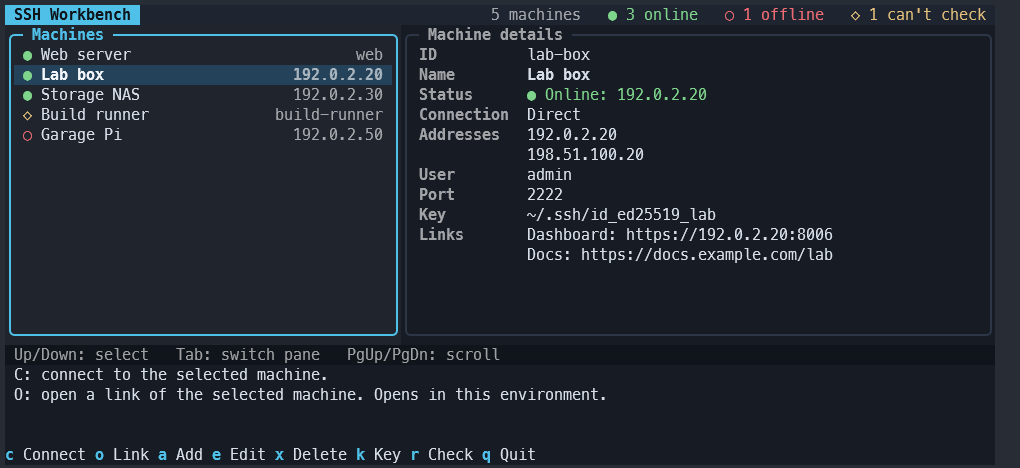
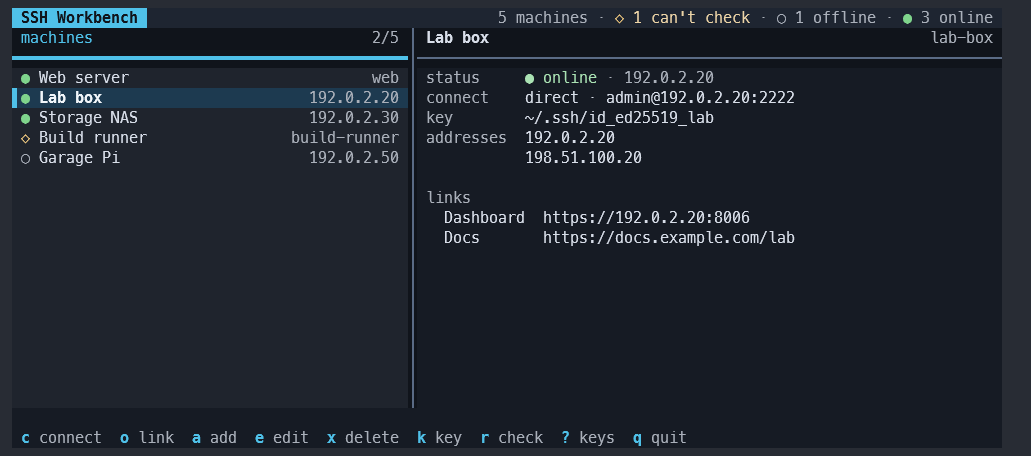
docs: the README image and a look check in Windows Terminal after the TUI overhaul

Changed region(s): [[0.0, 0.0, 0.9725, 0.8596], [0.0, 0.9518, 0.6686, 0.9825]]

diff --git a/docs/validation.md b/docs/validation.md
@@ -28,6 +28,46 @@ Not checked: what was left out, and why.
 | Screenshots | Only from fictional data; keep the rest in ignored `.local/` |
 | Automated checks | One line with the test count is enough; CI keeps the rest |
 
+## TUI overhaul: the look in Windows Terminal, 2026-11-23
+
+Windows 11, Windows Terminal 1.25.3131.0 (MesloLGM Nerd Font Mono, size 11,
+the profile's dark scheme at 85% opacity), PowerShell 7.6.10, Python 3.14.10,
+Textual 8.2.8, `main` at `728d023`. This is the one Windows Terminal look
+check the overhaul's design recommended after Task 30. At Jadon's request, a
+coding agent on another machine drove the window through a scheduled task in
+the Windows workstation's desktop session and the Windows Terminal harness, as
+in the Caps Lock entry of 2026-10-31; the task was unregistered afterwards.
+Three launchers were used: the Task 30 look launcher (51 fictional machines, a
+stand-in checker, a temporary machine file, state file and SSH folder, the
+process, socket and browser entry points rejected), `scripts/check_keys.py`
+for the key picker, and a launcher of the same build with five fictional
+machines for the README image. `NO_COLOR` was unset. No port check, no
+`ssh -G`, no `ssh`, no browser. C was never pressed, and K only in
+`check_keys.py`. Windows opened at 80x24, 60x20, 120x30 and 110x22; resizing
+an open window by pixels gave 57x19, 78x23 and 58x19.
+
+| Check | Observed |
+| --- | --- |
+| Bold | The selected machine's name, the details' name, the border titles, the footer and hint keys, the form's two buttons, the key picker's section labels, the highlighted option and the focused radio label drew in a heavier weight, each in its own color |
+| Glyphs | `▌ ● ○ ◇ × · X ↑↓` and the rounded frame corners each took one cell and drew in MesloLGM Nerd Font Mono |
+| Main screen | 80x24: the header with two counts, the `▌` marker and band on the selected row, five details rows and the links block with wrapped URLs, nine footer keys on one row. 60x20: labels above their values, the footer on two rows. 120x30: all five header counts and row targets |
+| `?` | The key panel opened at the right with cyan keys; Escape closed it |
+| Backdrop | Behind every modal the main screen was dimmed to faint text on the background color; the frames were solid |
+| Add form, 80x24 | `Add machine` in the border, lowercase labels beside the fields, the muted placeholder in the links box, `^s save` filled and `esc cancel` plain on the last row. Ctrl+S on the empty form put `expected a nonempty string` in red under `id` and the frame grew by a row; typing `demo` moved the error under `name` |
+| Focus bar and marks | Tab moved a cyan `▌` to the connection row, the checkbox and the links box without moving their text. Down then Space filled the `Direct (addresses)` ring and emptied the other, and the frame grew to show the direct fields with their placeholders. Space on the checkbox turned `·` into `X` |
+| Edit form | Studio box's values in their fields, the links box at five rows. Tab, Tab: the band was on `SSH alias` while the filled ring was on `Direct (addresses)`, as in the roadmap's backlog row |
+| Form across 60 columns | With an id and a name typed at 80x24, narrowing to 57x19 put the labels above their fields and stacked the two rings; the focused name field stayed in view and the buttons on the last row. Back at 78x23 the labels were beside their fields and both values were kept |
+| Link picker | Three links: the machine's name, each link's name over its muted URL, Grafana's URL wrapped under the name, the `▌` marker and band following Down, `enter open  esc cancel` on the last row; the same at 60x20 and 120x30. Twelve links at 80x24: the list scrolled with a one-column scrollbar between the name and the hint row, and End showed the twelfth with its marker |
+| Delete question | A red frame as wide as `Delete Studio box (studio-box)?`, a blank row, `y delete  n keep`; for the long name and 86-character ID the frame went to its width cap with the ID wrapped. N and Escape kept the machine |
+| Key picker (`check_keys.py`) | `Key login`, the intro, a blank row, `Key` bold, three options with the `▌` marker, a blank row, `Target system`, the filled and empty rings, and `↑↓ key  tab system  enter start  esc cancel` on the last row. Tab, Down, Space filled the Windows ring. For the alias machine the amber note and the muted `Not listed` line showed, and everything fit 80x24. Narrowed to 58x19 the body scrolled under the hint row with the highlighted key in view. Escape closed it and nothing started |
+| README image | `docs/images/workbench.png` retaken at 110x22 from the five-machine launcher with the second machine selected, cropped to the terminal area |
+| Q | `APP EXIT STATUS: 0` after each of the eight runs but the first, whose window was closed by the harness after a script error before Q was sent |
+
+Not checked: 40x16 and 160x50 in Windows Terminal; Enter in either picker, Y
+in either question and a save (no machine file was changed); the Include
+question; the mouse and a physical keyboard; text contrast as a measured
+ratio; other fonts and Windows Terminal's default profile settings.
+
 ## TUI overhaul Task 30: forms and pickers, 2026-11-22
 
 Arch Linux (Omarchy, Hyprland 0.56.2, Wayland), Ghostty 1.4.0
